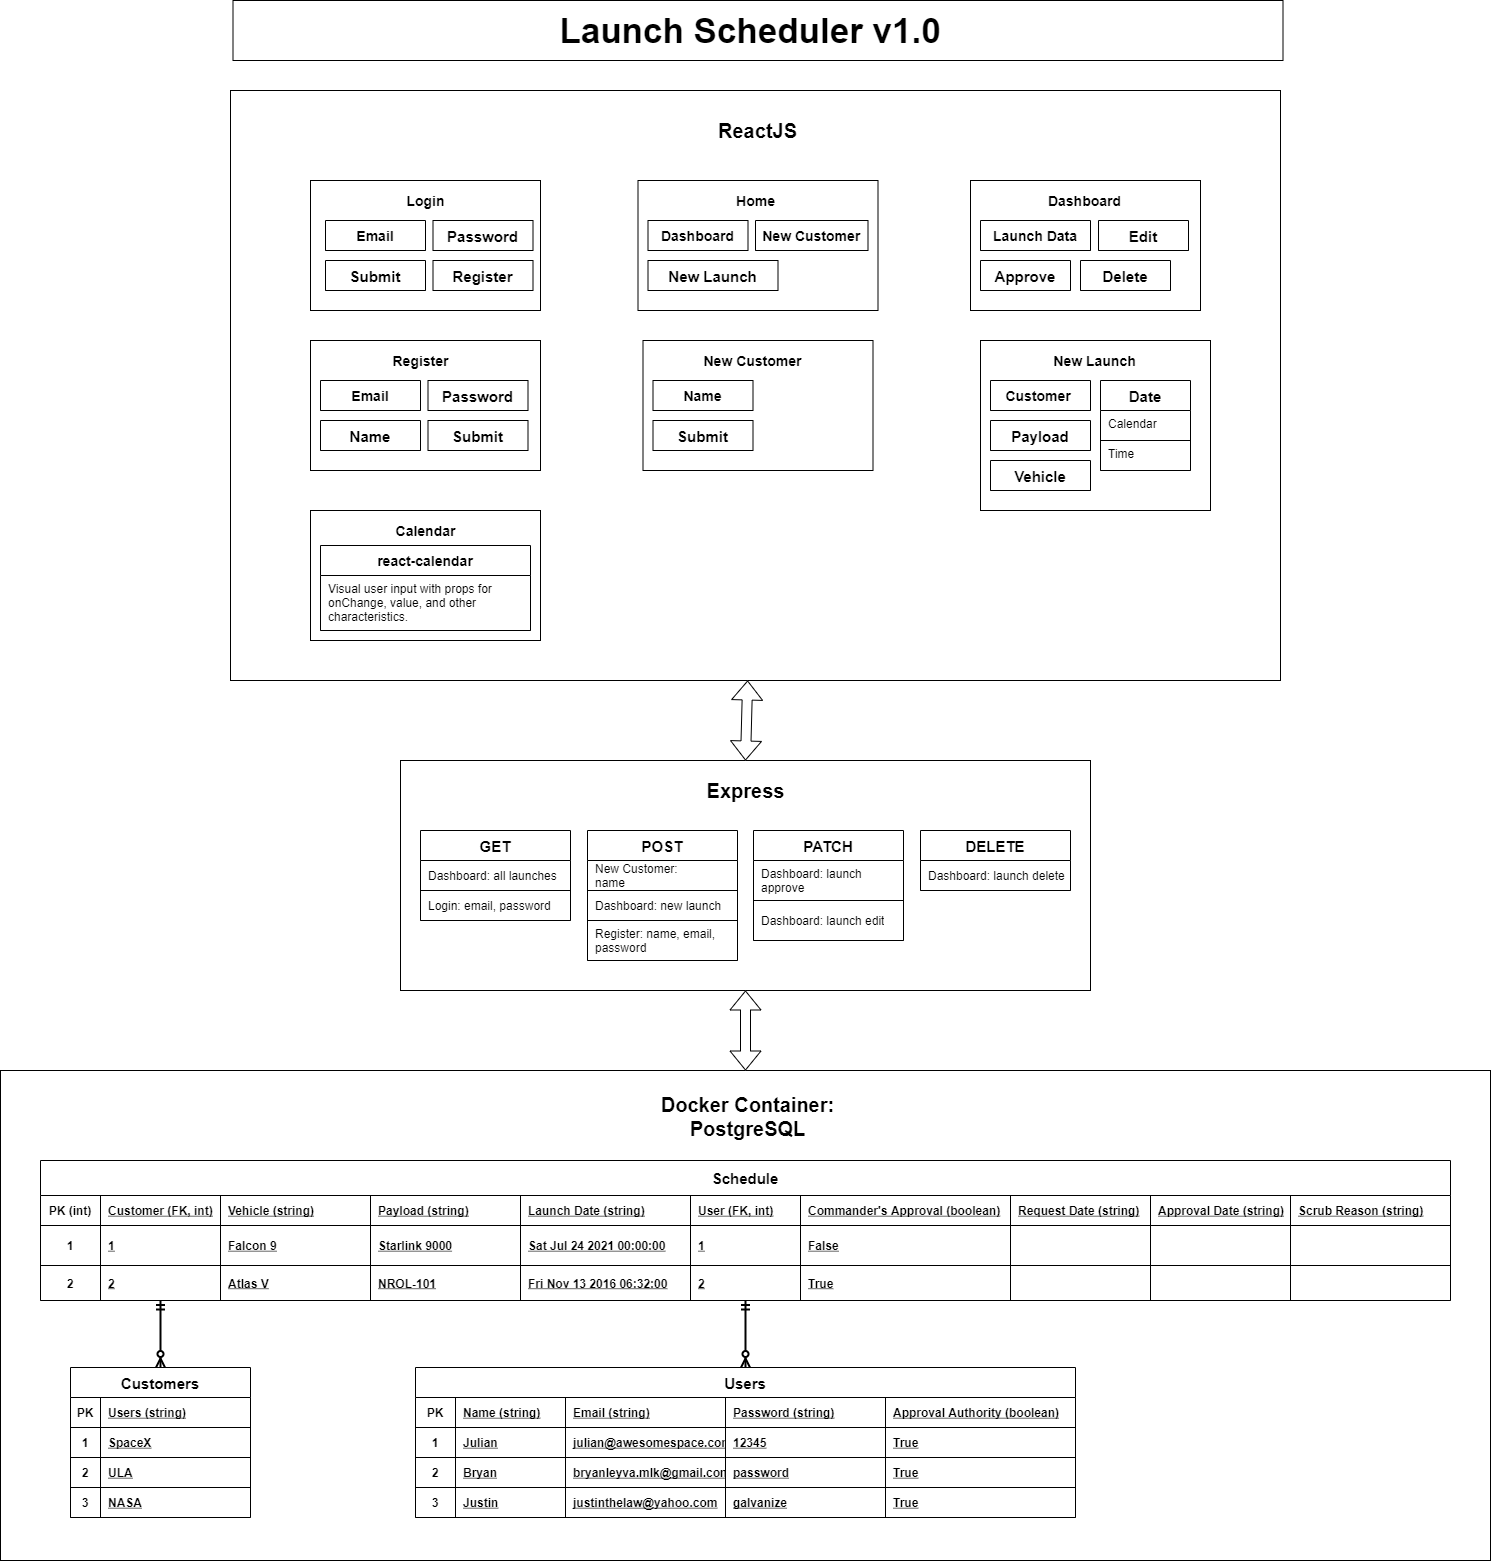
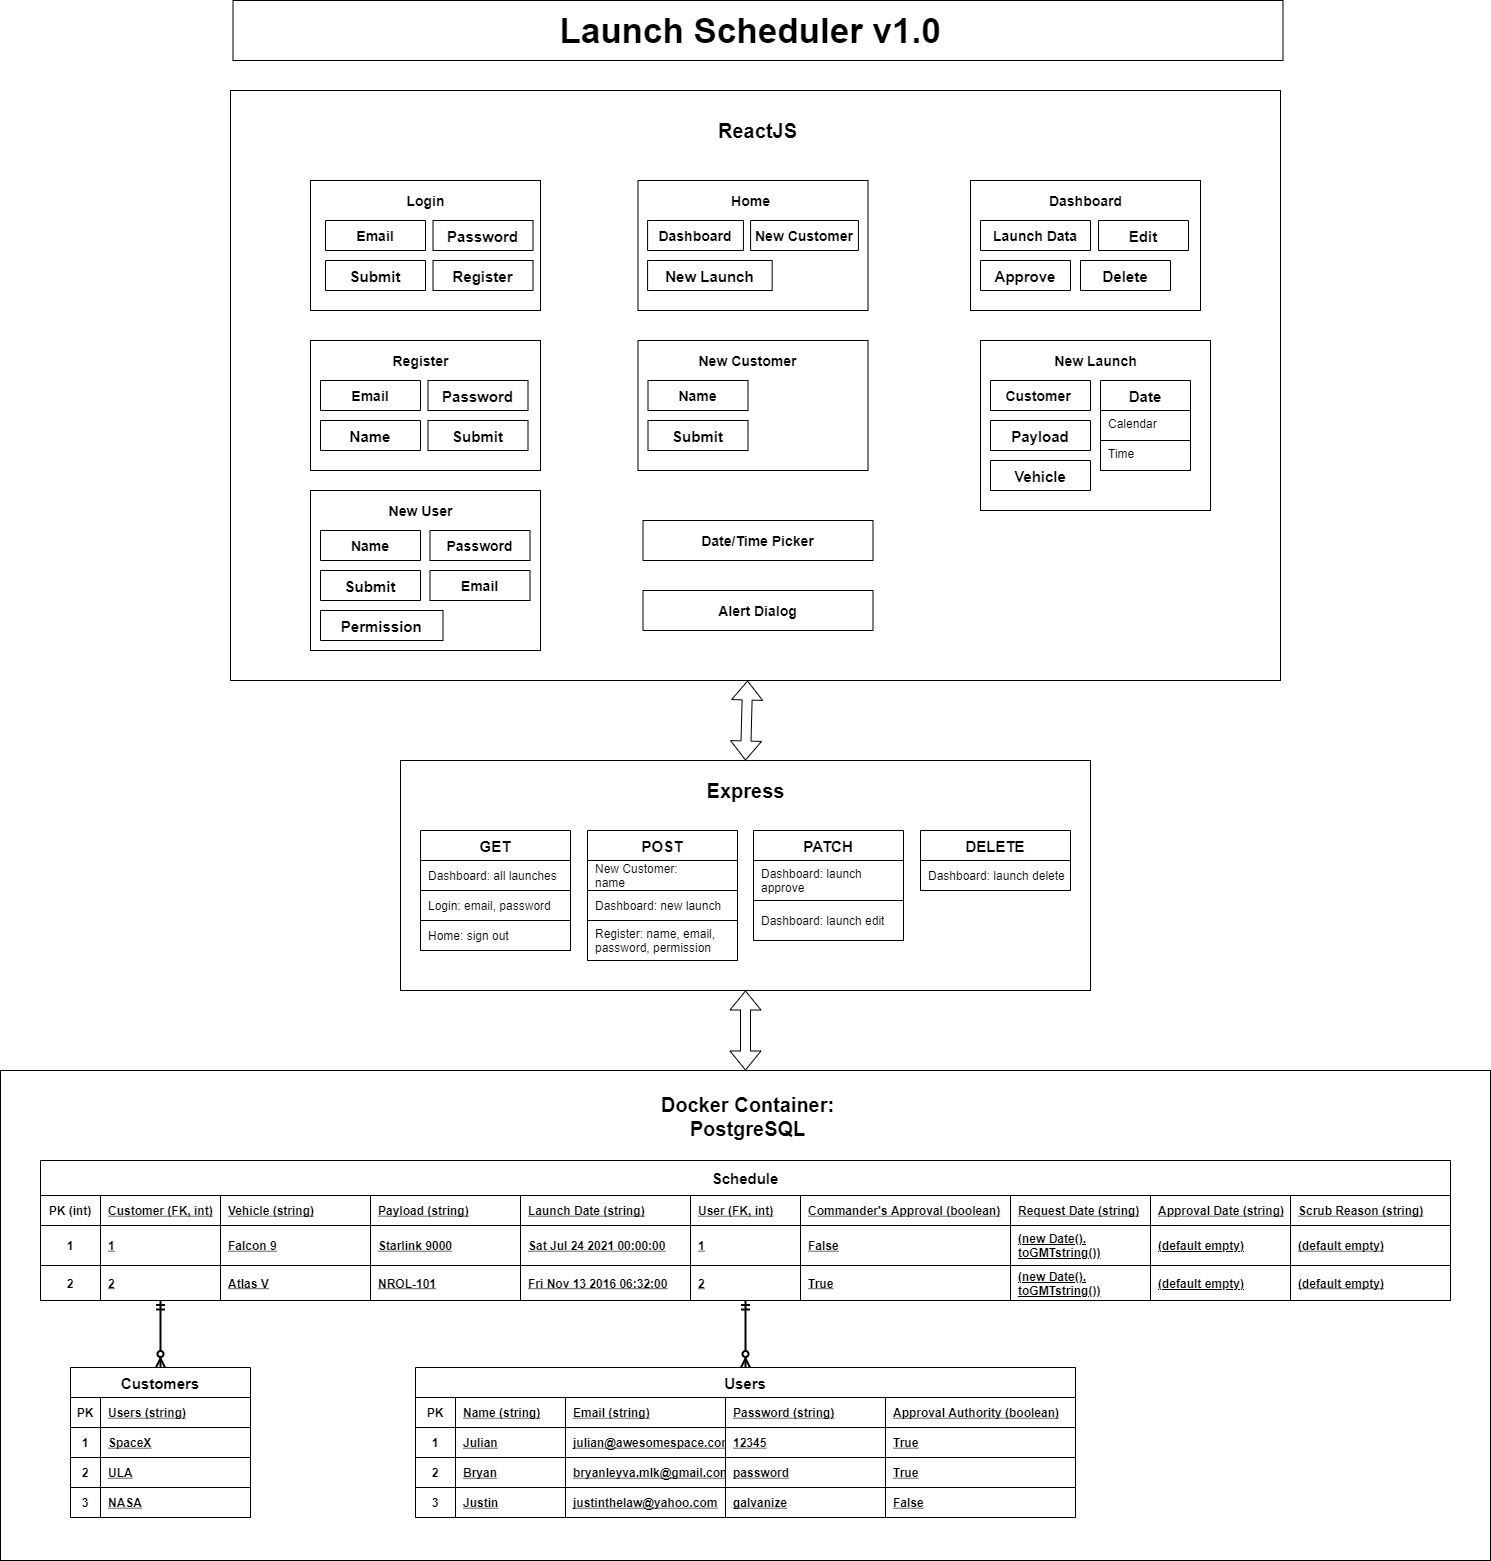
Modified README

diff --git a/Backend/seeds/2_initial_users.js b/Backend/seeds/2_initial_users.js
@@ -1,16 +1,16 @@
 
-exports.seed = function(knex) {
-    // Deletes ALL existing entries
-    return knex('users').del()
-      .then(function () {
-        // Inserts seed entries
-        return knex('users').insert([
-          {name: 'Julian', email: 'julian@awesomespace.com' , password: '12345', commander: true},
-          {name: 'Bryan', email: 'bryanleyva.mlk@gmail.com', password: 'password', commander: true},
-          {name: 'Justin', email: 'justinthelaw@yahoo.com', password: 'galvanize', commander: false}
-        ]);
-      });
-  };
+exports.seed = function (knex) {
+  // Deletes ALL existing entries
+  return knex('users').del()
+    .then(function () {
+      // Inserts seed entries
+      return knex('users').insert([
+        { name: 'Julian', email: 'julian@awesomespace.com', password: '12345', commander: true },
+        { name: 'Bryan', email: 'bryanleyva.mlk@gmail.com', password: 'password', commander: true },
+        { name: 'Justin', email: 'justinthelaw@yahoo.com', password: 'galvanize', commander: true }
+      ]);
+    });
+};
 
 //return knex.schema.createTable('users', table => {
 //               table.increments('id').primary(); // adds an auto incrementing PK column

diff --git a/Backend/seeds/3_initial_schedule.js b/Backend/seeds/3_initial_schedule.js
@@ -4,8 +4,8 @@ exports.seed = function (knex) {
     .then(function () {
       // Inserts seed entries
       return knex('launchschedule').insert([
-        { customer_id: 1, vehicle: 'Falcon 9', payload: 'Starlink 9000', launch_date: 'Sat, Jul 24 2021 00:00:00 Z', user_id: 1, commander_approval: false },
-        { customer_id: 2, vehicle: 'Atlas V', payload: 'NROL-101', launch_date: 'Fri, Nov 13 2016 06:32:00 Z', user_id: 3, commander_approval: true, approval_date: 'Tue, Nov 1 2016 06:00:00 Z' }
+        { customer_id: 1, vehicle: 'Falcon 9', payload: 'Starlink 9000', launch_date: 'Sat Jul 24 2021 00:00:00 Z', user_id: 1, commander_approval: false },
+        { customer_id: 2, vehicle: 'Atlas V', payload: 'NROL-101', launch_date: 'Fri Nov 13 2016 06:32:00 Z', user_id: 3, commander_approval: true, approval_date: 'Tue Nov 1 2016 06:00:00 Z' }
       ]);
     });
 };

diff --git a/README.md b/README.md
@@ -1,35 +1,41 @@
-# USSF_Project_#2
-Launch Scheduler 5000
+# Launch Scheduler 9000
 
 ## Overview
-Launch Scheduler 5000 allows the users to keep a history of launch requests and whether they are approved
+Launch Scheduler 9000 allows registerede users to file, view, and approve scheduled launches on a minimalistic dashboard.
 
 ## Table of Contents
-You can link to the different sections below
+
 
 ## Description
 ![Schema](./Description/SCHEMA.png)
 
 ## Installation
-User will need to create db on postgres "project2db"
+  1. Please modify the .env.example file, following the format commented within the .env file. Delete the comments and the .example extension of the .env file before running the application.
 
-npm install from both /backend and /front end folders
+  2. To run the application, please start your PostgreSQL docker container and CREATE DATABASE as named in your .env file.
 
-populate the database with
-    npx knex migrate:latest
-    npx knex seed:run
+  3. Go to the frontend folder and execute ```npm install```
 
-npm start from the backend
+  4. Go to the backend folder and execute ```npm install```
 
-npm start from the front end
+  5. To implement migrations into your database, execute ```npx knex migrate:latest```
 
-enjoy the app
+  6. To add seed data to your migrations, execute ```npx knex seed:run```
 
+  7. Go to the frontend and execute ```npm start``` to start the React app.
+
+  8. Go to the backend and execute ```npm start``` to start the Express server.
+
+  9. Please use the following dummy information to login for the first time:
+    - Email: justinthelaw@yahoo.com
+    - Password: galvanize
+
+  10. Now you can create launch schedules, register users, and register customers!
 
 ## Team Members
 
  - Bryan Leyva: Project Commander; the fate of the project rests on his shoulders
-    - [Bryan's Github](https://github.com/bleyva21)
+    - [Bryan's GitHub](https://github.com/bleyva21)
  - Justin Law: Lead software developer; decideds all critical implementations
     - [Justin's GitHub](https://github.com/justinthelaw)
  - Julian Heinze: Founder; came up with the name of the app
@@ -37,11 +43,13 @@ enjoy the app
 
 ## Roadmap
 Future enhancements:
-    Only show current launch dates that haven't launched yet.
-    Tweak the delete button, (still need to maintain 10 year history of records)
-    Do verification of edits (currently you can submit an edit with no changes which causes CC Approval => false)
-    Current state of project is 'useable' however, limited
-    App is only being maintained for this week 7/9/2021, until viability can be confirmed
+- Only show current launch dates that haven't launched yet and the ability to archive past ones (10 year history of records)
+- Do verification of edited data - currently you can submit an edit with no changes which causes CC Approval => false
+- Add new permission levels for: new user registration, customer registration, etc.
+- Make launch vehicles a select list based on up-to-date launch vehicle lists from customers
+- Register users from the login page
+- Current state of project is 'useable', however it is limited and has not been deployed
+- App is only being maintained for this week 7/9/2021, until viability can be confirmed
 
 ## License
 This software is licensed under the [MIT](./LICENSE) license.
